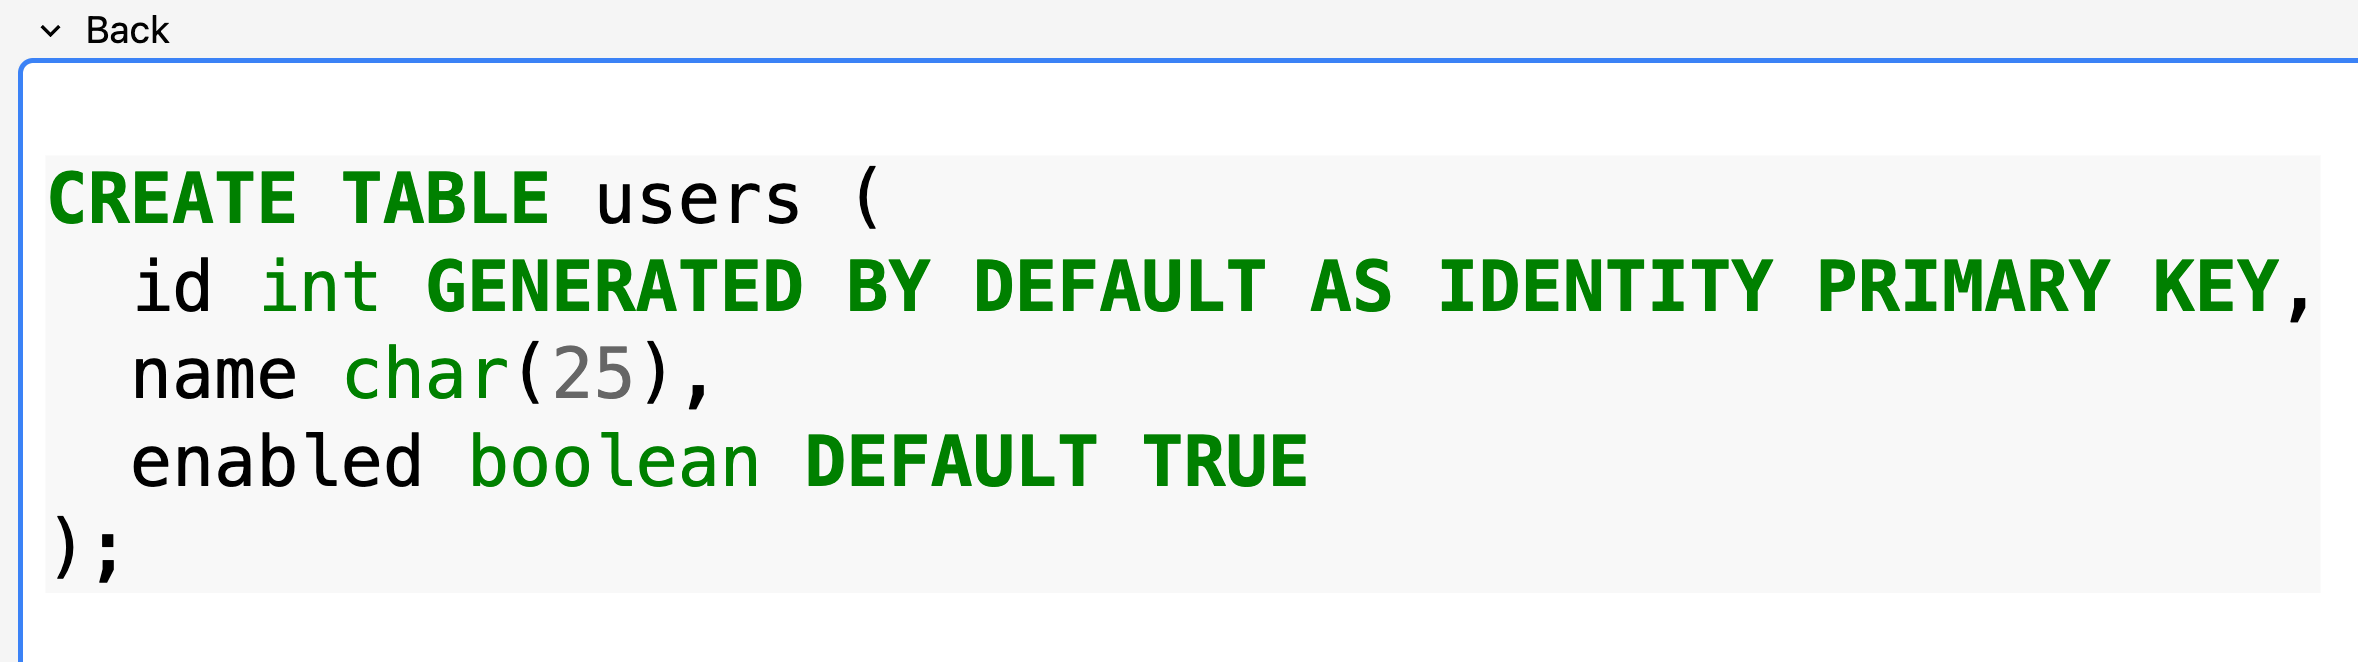
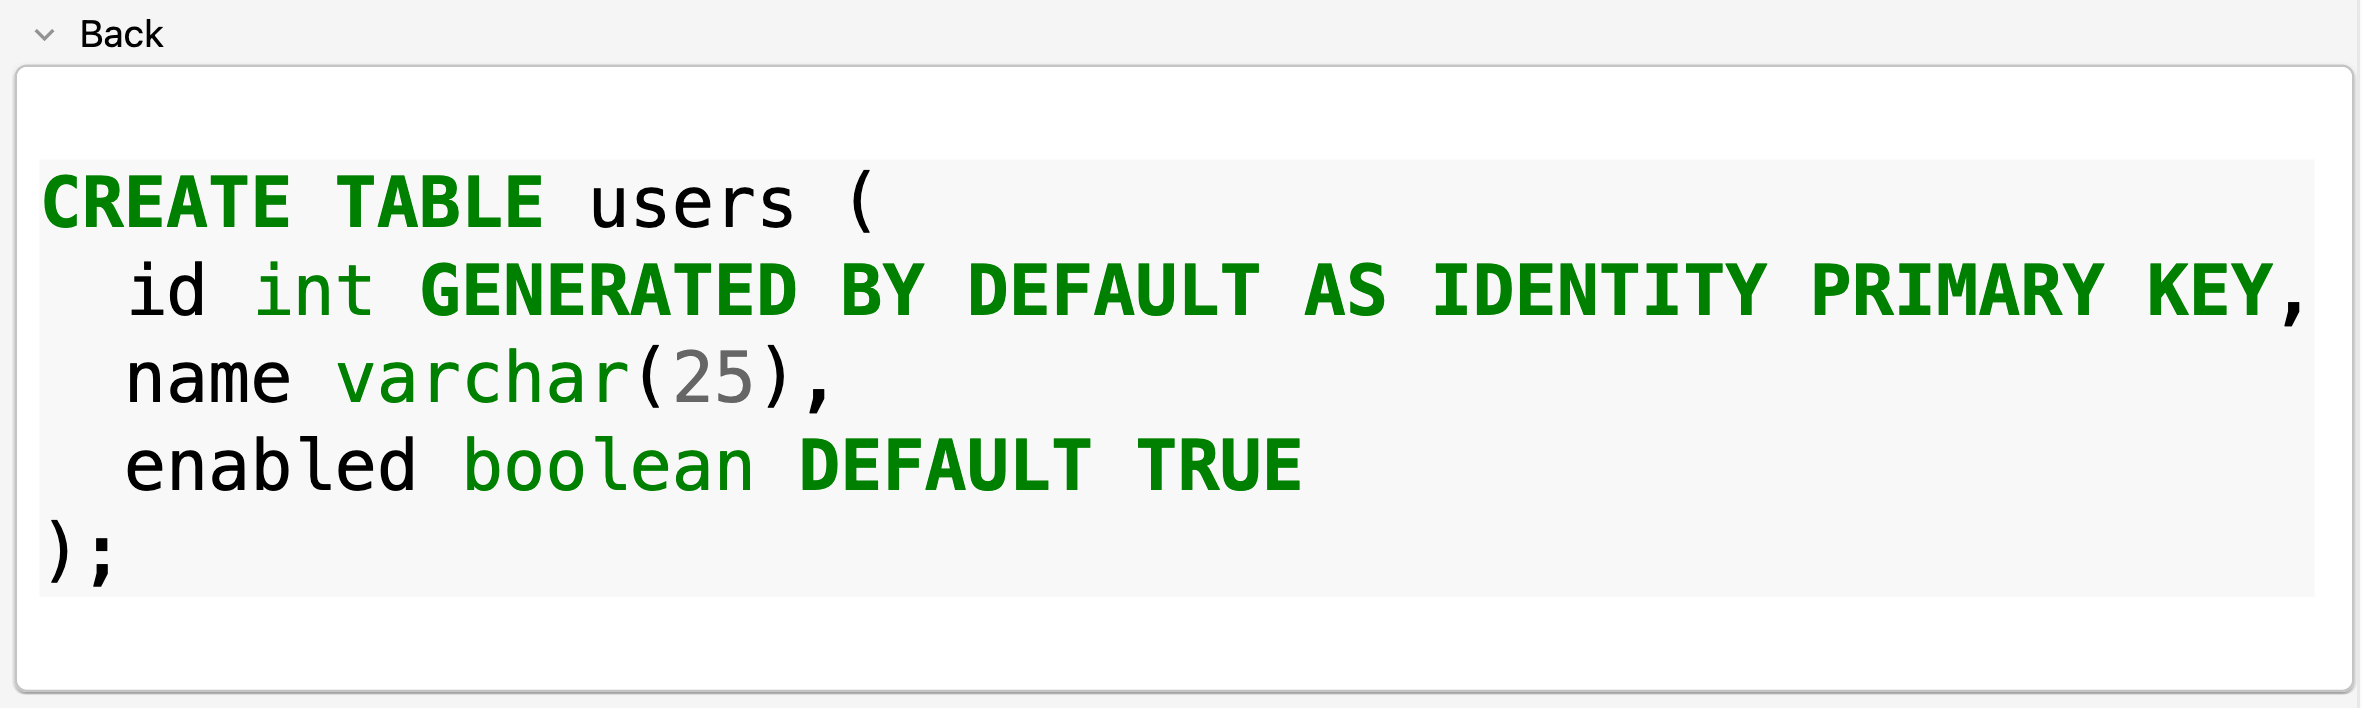
Update output comparisons

Changed region(s): [[0.0, 0.0302, 1.0, 0.997]]

diff --git a/README.md b/README.md
@@ -26,11 +26,11 @@ A few long-form notes in your recall practice help you test yourself on complete
   <div class="highlight" style="background: #f8f8f8">
     <pre style="line-height: 125%"><span style="color: #008000; font-weight: bold">CREATE</span> <span style="color: #008000; font-weight: bold">TABLE</span> users (
   id <span style="color: #008000">int</span> <font color="#008000"><b>GENERATED BY DEFAULT AS IDENTITY PRIMARY KEY</b></font>,
-  name <span style="color: #008000">char</span>(<span style="color: #666666">25</span>),
+  name <span style="color: #008000">varchar</span>(<span style="color: #666666">25</span>),
   enabled <span style="color: #008000">boolean</span> <span style="color: #008000; font-weight: bold">DEFAULT</span> <font color="#008000"><b>TRUE</b></font>
 );</pre>
   </div>
-  </td></tr></tbody></table>
+</td></tr></tbody></table>
 ```
 
 ### Comparison when incorrectly answered
@@ -39,8 +39,8 @@ A few long-form notes in your recall practice help you test yourself on complete
 
 ```text
 CREATE TABLE users (
-  id int GENERATED BY DEFAULT AS IDENTITY,
-  name char(30),
+  id int ?? BY DEFAULT AS IDENTITY,
+  name chr(25),
   enabled boolean DEFAULT TRUE
 )
 ```
@@ -49,15 +49,15 @@ CREATE TABLE users (
 
 ![Incorrect Answer, Anki Output](readme/incorrect-answer-anki-output.png)
 
-Notice how Anki's comparison requires looking at *two separate blocks to get the full picture of incorrect vs correct*. That's not too bad when comparing the single lines of text for which Anki's system was designed.
+Notice how Anki's comparison requires looking at *two separate blocks to get the full picture* of incorrect vs correct. That's not too bad when comparing the single lines of text for which Anki's system was designed.
 
-Regardless of how many lines you're comparing, that comparison layout can significantly slow you down.
+Regardless of how many lines you're comparing, though, that dual-block layout can significantly slow you down.
 
 #### This add-on's output when answered incorrectly
 
 This layout enables a user to focus on what's incorrect, including adjacent ~~incorrect~~correct values to speed up learning.
 
-![Incorrect Answer, DMP Output](readme/incorrect-answer-dmp-output.png)
+![Incorrect Answer, Semantic Diff Output](readme/incorrect-answer-dmp-output.png)
 
 ### Output when correctly answered
 
@@ -66,7 +66,7 @@ This layout enables a user to focus on what's incorrect, including adjacent ~~in
 ```text
 CREATE TABLE users (
   id int GENERATED BY DEFAULT AS IDENTITY PRIMARY KEY,
-  name char(25),
+  name varchar(25),
   enabled boolean DEFAULT TRUE
 );
 ```
@@ -77,7 +77,9 @@ CREATE TABLE users (
 
 #### This add-on's output when answered correctly
 
-![Correct Answer, DMP Output](readme/correct-answer-dmp-output.png)
+Green sidebar to indicate a correct answer; original formatting displayed.
+
+![Correct Answer, Semantic Diff Output](readme/correct-answer-dmp-output.png)
 
 ***
 
